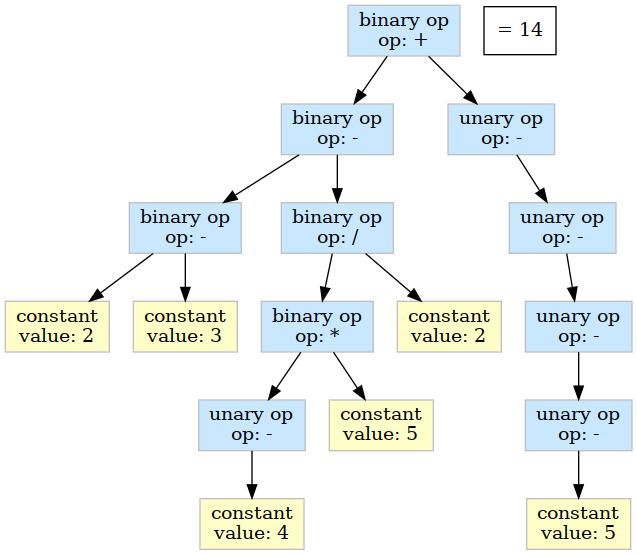
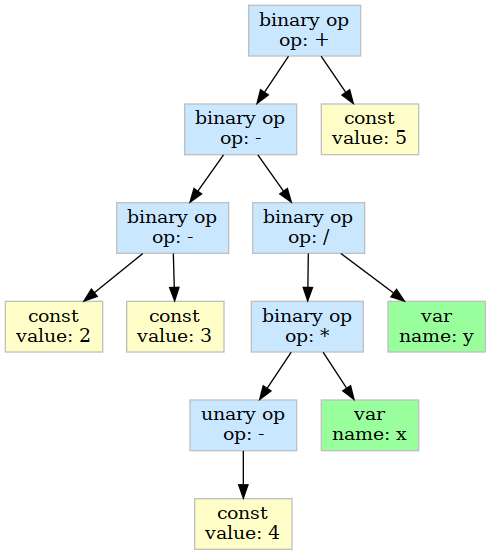
Added variable token

Changed region(s): [[0.0, 0.0, 1.0, 1.0]]

diff --git a/src/ast.cpp b/src/ast.cpp
@@ -26,7 +26,7 @@ void ASTNode::print(int depth) const {
 void ASTNode::visualize(const char* fileName) const {
     assert(fileName != nullptr);
 
-    char dotFileName[1000];
+    char dotFileName[100];
     strcpy(dotFileName, fileName);
     strcat(dotFileName, ".dot");
 
@@ -34,7 +34,6 @@ void ASTNode::visualize(const char* fileName) const {
     fprintf(graphvizTextFile, "digraph AST {\n");
     int nodeId = 0;
     dotPrint(graphvizTextFile, nodeId);
-    fprintf(graphvizTextFile, "\"= %lg\" [shape=box];\n", calculate());
     fprintf(graphvizTextFile, "}\n");
     fclose(graphvizTextFile);
 
@@ -46,14 +45,14 @@ void ASTNode::visualize(const char* fileName) const {
 void ASTNode::texify(const char* fileName) const {
     assert(fileName != nullptr);
 
-    char texFileName[1000];
+    char texFileName[100];
     strcpy(texFileName, fileName);
     strcat(texFileName, ".tex");
 
     FILE* texFile = fopen(texFileName, "w");
     fprintf(texFile, "\\documentclass{article}\n\\begin{document}\n\\begin{center}\n\t$ ");
     texPrint(texFile);
-    fprintf(texFile, " = %lg $\n\\end{center}\n\\end{document}\n", calculate());
+    fprintf(texFile, "$\n\\end{center}\n\\end{document}\n");
     fclose(texFile);
 
     char command[1000];
@@ -78,7 +77,11 @@ double ASTNode::calculate() const {
 void ASTNode::dotPrint(FILE* dotFile, int& nodeId) const {
     if (token->getType() == TokenType::CONSTANT_VALUE) {
         auto constantValueToken = dynamic_cast<ConstantValueToken*>(token.get());
-        fprintf(dotFile, "%d [label=\"constant\nvalue: %lg\", shape=box, style=filled, color=\"grey\", fillcolor=\"#FFFEC9\"];\n", nodeId, constantValueToken->getValue());
+        fprintf(dotFile, "%d [label=\"const\nvalue: %lg\", shape=box, style=filled, color=\"grey\", fillcolor=\"#FFFEC9\"];\n", nodeId, constantValueToken->getValue());
+        ++nodeId;
+    } else if (token->getType() == TokenType::VARIABLE) {
+        auto variableToken = dynamic_cast<VariableToken*>(token.get());
+        fprintf(dotFile, "%d [label=\"var\nname: %s\", shape=box, style=filled, color=\"grey\", fillcolor=\"#99FF9D\"];\n", nodeId, variableToken->getName());
         ++nodeId;
     } else if (token->getType() == TokenType::OPERATOR) {
         auto operatorToken = dynamic_cast<OperatorToken*>(token.get());
@@ -107,6 +110,9 @@ void ASTNode::texPrint(FILE* texFile, bool braced) const {
     if (token->getType() == TokenType::CONSTANT_VALUE) {
         auto constantValueToken = dynamic_cast<ConstantValueToken*>(token.get());
         fprintf(texFile, "%lg", constantValueToken->getValue());
+    } else if (token->getType() == TokenType::VARIABLE) {
+        auto variableToken = dynamic_cast<VariableToken*>(token.get());
+        fprintf(texFile, "%s", variableToken->getName());
     } else if (token->getType() == TokenType::OPERATOR) {
         auto operatorToken = dynamic_cast<OperatorToken*>(token.get());
         const char* operatorSymbol = operatorToken->getSymbol();
@@ -164,7 +170,7 @@ std::shared_ptr<ASTNode> buildAST(const std::vector<std::shared_ptr<Token> >& in
     std::stack<std::shared_ptr<ASTNode> > astNodes;
 
     for (auto& token : infixNotationTokens) {
-        if (token->getType() == TokenType::CONSTANT_VALUE) {
+        if ((token->getType() == TokenType::CONSTANT_VALUE) || (token->getType() == TokenType::VARIABLE)) {
             astNodes.push(std::make_shared<ASTNode>(token));
         } else if (token->getType() == TokenType::PARENTHESIS) {
             auto parenthesisToken = dynamic_cast<ParenthesisToken*>(token.get());

diff --git a/test/tokenizer_tests.cpp b/test/tokenizer_tests.cpp
@@ -19,9 +19,9 @@
 #define ASSERT_PARENTHESIS_TOKEN(token, open) do {                                                                     \
     ASSERT_NOT_NULL(token);                                                                                            \
     ASSERT_EQUALS(token->getType(), PARENTHESIS);                                                                      \
-    auto operatorToken = dynamic_cast<ParenthesisToken*>(token.get());                                                 \
-    ASSERT_NOT_NULL(operatorToken);                                                                                    \
-    ASSERT_EQUALS(operatorToken->isOpen(), open);                                                                      \
+    auto parenthesisToken = dynamic_cast<ParenthesisToken*>(token.get());                                              \
+    ASSERT_NOT_NULL(parenthesisToken);                                                                                 \
+    ASSERT_EQUALS(parenthesisToken->isOpen(), open);                                                                   \
 } while(0)
 
 #define ASSERT_OPERATOR_TOKEN(token, arity, precedence, operatorType) do {                                             \
@@ -33,6 +33,14 @@
     ASSERT_EQUALS(operatorToken->getPrecedence(), precedence);                                                         \
     ASSERT_EQUALS(operatorToken->getOperatorType(), operatorType);                                                     \
 } while (0)
+
+#define ASSERT_VARIABLE_TOKEN(token, name) do {                                                                        \
+    ASSERT_NOT_NULL(token);                                                                                            \
+    ASSERT_EQUALS(token->getType(), VARIABLE);                                                                         \
+    auto variableToken = dynamic_cast<VariableToken*>(token.get());                                                    \
+    ASSERT_NOT_NULL(variableToken);                                                                                    \
+    ASSERT_TRUE(strcmp(variableToken->getName(), name) == 0);                                                          \
+} while(0)
 
 TEST(tokenize, simpleExpression) {
     char* expression = (char*)"1*(2+3)";
@@ -121,12 +129,12 @@ TEST(tokenize, realConstantInExponentionalForm) {
 }
 
 TEST(tokenize, invalidToken) {
-    char* expression = (char*)"1/x";
+    char* expression = (char*)"1/_";
     try {
         tokenize(expression);
         ASSERT_TRUE(false);
     } catch (std::invalid_argument& ex) {
-        ASSERT_TRUE(strcmp(ex.what(), "Invalid symbol found: 'x'") == 0);
+        ASSERT_TRUE(strcmp(ex.what(), "Invalid symbol found: '_'") == 0);
     }
 }
 
@@ -138,4 +146,19 @@ TEST(tokenize, invalidConstant) {
     } catch (std::invalid_argument& ex) {
         ASSERT_TRUE(strcmp(ex.what(), "Invalid symbol found: '.'") == 0);
     }
+}
+
+TEST(tokenize, simpleExpressionWithVariables) {
+    char* expression = (char*)"x+5*const-tmp";
+
+    std::vector<std::shared_ptr<Token>> tokens = tokenize(expression);
+
+    ASSERT_EQUALS(tokens.size(), 7);
+    ASSERT_VARIABLE_TOKEN(tokens[0], "x");
+    ASSERT_OPERATOR_TOKEN(tokens[1], 2, 1, ADDITION);
+    ASSERT_CONSTANT_VALUE_TOKEN(tokens[2], 5);
+    ASSERT_OPERATOR_TOKEN(tokens[3], 2, 2, MULTIPLICATION);
+    ASSERT_VARIABLE_TOKEN(tokens[4], "const");
+    ASSERT_OPERATOR_TOKEN(tokens[5], 2, 1, SUBTRACTION);
+    ASSERT_VARIABLE_TOKEN(tokens[6], "tmp");
 }

diff --git a/src/tokenizer.cpp b/src/tokenizer.cpp
@@ -6,6 +6,7 @@
 #include <cstdarg>
 #include <cstdio>
 #include <cstdlib>
+#include <memory>
 #include <stdexcept>
 #include "tokenizer.h"
 
@@ -95,6 +96,25 @@ double UnaryAdditionOperator::calculate(size_t argc, ...) const {
     return operand;
 }
 
+std::map<char*, std::shared_ptr<VariableToken>, VariableToken::keyCompare> VariableToken::symbolTable;
+
+std::shared_ptr<VariableToken> VariableToken::getVariableByName(char* name) {
+    if (symbolTable.count(name) == 0) {
+        auto token = std::shared_ptr<VariableToken>(new VariableToken(name));
+        symbolTable[token->name] = token;
+    }
+    return symbolTable[name];
+}
+
+void VariableToken::print() const {
+    Token::print();
+    printf(" NAME=%s", name);
+}
+
+double VariableToken::calculate(size_t argc __attribute__((unused)), ...) const {
+    throw std::logic_error("Variable can't be calculated");
+}
+
 static bool addNextToken(char*& expression, std::vector<std::shared_ptr<Token>>& tokens);
 
 /**
@@ -139,9 +159,11 @@ static bool addNextToken(char*& expression, std::vector<std::shared_ptr<Token>>&
         }
 
         bool isBinary = (previousToken != nullptr) && (
-                (previousToken->getType() == CONSTANT_VALUE) ||
-                ((previousToken->getType() == PARENTHESIS) &&
-                 (dynamic_cast<ParenthesisToken*>(previousToken)->isClose()))
+            (previousToken->getType() == CONSTANT_VALUE) ||
+            (previousToken->getType() == VARIABLE) || (
+                (previousToken->getType() == PARENTHESIS) &&
+                (dynamic_cast<ParenthesisToken*>(previousToken)->isClose())
+            )
         );
 
         if (isBinary) {
@@ -162,6 +184,14 @@ static bool addNextToken(char*& expression, std::vector<std::shared_ptr<Token>>&
     } else if (isdigit(*expression)) {
         double tokenValue = strtod(expression, &expression);
         tokens.emplace_back(new ConstantValueToken(tokenValue));
+    } else if (isalpha(*expression)) { // Variable name starts with letter
+        char* name = (char*)calloc(VariableToken::MAX_NAME_LENGTH, sizeof(char));
+        unsigned int i = 0;
+        do {
+            name[i++] = *expression++;
+        } while (i < VariableToken::MAX_NAME_LENGTH && (isalpha(*expression) || isdigit(*expression))); // Other symbols in the name can be letters or digits
+        tokens.push_back(VariableToken::getVariableByName(name));
+        free(name);
     } else {
         char message[26];
         snprintf(message, sizeof(message), "Invalid symbol found: '%c'", *expression);

diff --git a/src/tokenizer.h b/src/tokenizer.h
@@ -7,6 +7,8 @@
 
 #include <cctype>
 #include <climits>
+#include <cstring>
+#include <map>
 #include <memory>
 #include <vector>
 
@@ -14,12 +16,14 @@ enum TokenType {
     CONSTANT_VALUE,
     PARENTHESIS,
     OPERATOR,
+    VARIABLE,
 };
 
 static const char* const TokenTypeStrings[] = {
     "CONSTANT_VALUE",
     "PARENTHESIS",
     "OPERATOR",
+    "VARIABLE",
 };
 
 class Token {
@@ -203,6 +207,44 @@ public:
     }
 
     double calculate(size_t argc, ...) const override;
+};
+
+class VariableToken : public Token {
+
+private:
+    struct keyCompare {
+        bool operator()(char* a, char* b) const {
+            return strcmp(a, b) < 0;
+        }
+    };
+
+    static std::map<char*, std::shared_ptr<VariableToken>, keyCompare> symbolTable;
+    char* name;
+
+    explicit VariableToken(const char* name_) : Token(VARIABLE) {
+        name = (char*)calloc(MAX_NAME_LENGTH, sizeof(char));
+        for (unsigned int i = 0; i < MAX_NAME_LENGTH; ++i) {
+            name[i] = name_[i];
+            if (name[i] == '\0') break;
+        }
+    }
+
+public:
+    ~VariableToken() override {
+        free(name);
+    }
+
+    static constexpr size_t MAX_NAME_LENGTH = 256u;
+
+    static std::shared_ptr<VariableToken> getVariableByName(char* name);
+
+    void print() const override;
+
+    double calculate(size_t argc __attribute__((unused)), ...) const override;
+
+    const char* getName() const {
+        return name;
+    }
 };
 
 /**

diff --git a/src/ast.h b/src/ast.h
@@ -19,7 +19,7 @@ private:
 
 public:
     explicit ASTNode(const std::shared_ptr<Token>& token_) {
-        assert(token_->getType() == TokenType::CONSTANT_VALUE);
+        assert((token_->getType() == TokenType::CONSTANT_VALUE) || (token_->getType() == TokenType::VARIABLE));
 
         token = token_;
         childrenNumber = 0;

diff --git a/samples/simple-expression.tex b/samples/simple-expression.tex
@@ -1,6 +1,6 @@
 \documentclass{article}
 \begin{document}
 \begin{center}
-	$ 2 - 3 - \frac{-4 * 5}{2} + ----5 = 14 $
+	$ 2 - 3 - \frac{-4 * x}{y} + 5$
 \end{center}
 \end{document}

diff --git a/README.md b/README.md
@@ -3,7 +3,8 @@
 ## Project description
 
 This program is developed as a part of ISP RAS course.  
-This program can build AST from mathematical expression of real numbers (even negative) with parentheses and simple operators (`+`, `-`, `*`, `/`) 
+This program can build AST from mathematical expression of real numbers (even negative) and variables (variable name starts with letter and contain letters and digits) 
+with parentheses and simple operators (`+`, `-`, `*`, `/`) 
 and visualize it using graphviz. Also it can convert expressions into TeX/PDF format.
 
 AST can be optimized with `--optimized` option. Currently supported optimizations:
@@ -41,8 +42,8 @@ NOTE: This program runs only on UNIX-like OS. Also `dot` and `pdflatex` should b
 To run main program execute next commands in terminal:
 ```shell script
 cmake . && make
-./ast-builder "2 - 3 - (-4 * 5) / 2 + ----5"
-./ast-builder "2 - 3 - (-4 * 5) / 2 + ----5" --optimized
+./ast-builder "2 - 3 - (-4 * x) / y + ----5"
+./ast-builder "2 - 3 - (-4 * x) / y + ----5" --optimized
 ```
 
 #### Tests
